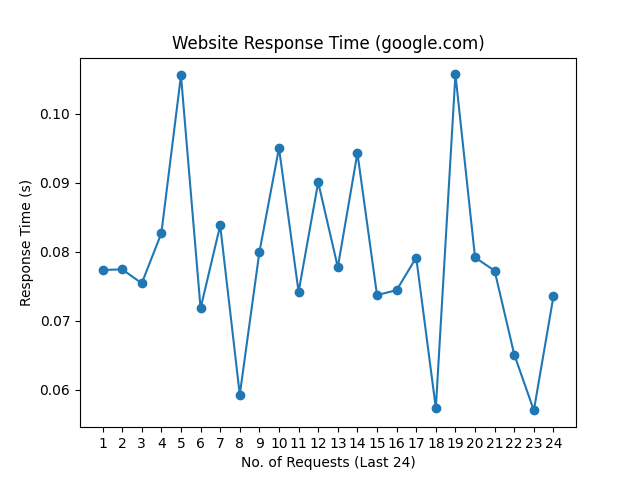
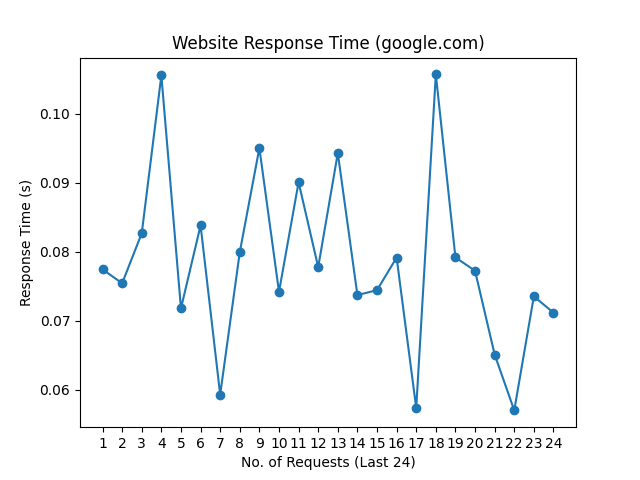
update README.md, history and graph

Changed region(s): [[0.1562, 0.125, 0.875, 0.875]]

diff --git a/README.md b/README.md
@@ -1,10 +1,10 @@
 # Web Monitoring
 
-Last Checked: 05/05/2025 08:24
+Last Checked: 06/05/2025 08:23
 
 | Website | Response Time (s) | Status | Avg Uptime (%) |
 |---------|-------------------|--------|----------------|
 | www.thiswebsiteisdown.net | 0 <br> <img src="graph/thiswebsiteisdown.net.png" alt="Graph" width="200" height="200">  | ❌ Down | 0.00 |
-| www.netflix.com | 1.250816 <br> <img src="graph/netflix.com.png" alt="Graph" width="200" height="200">  | ✅ Up | 99.69 |
-| www.google.com | 0.073555 <br> <img src="graph/google.com.png" alt="Graph" width="200" height="200">  | ✅ Up | 100.00 |
-| www.facebook.com | 0.916141 <br> <img src="graph/facebook.com.png" alt="Graph" width="200" height="200">  | ✅ Up | 100.00 |
+| www.netflix.com | 0.799337 <br> <img src="graph/netflix.com.png" alt="Graph" width="200" height="200">  | ✅ Up | 99.69 |
+| www.google.com | 0.071185 <br> <img src="graph/google.com.png" alt="Graph" width="200" height="200">  | ✅ Up | 100.00 |
+| www.facebook.com | 0.570388 <br> <img src="graph/facebook.com.png" alt="Graph" width="200" height="200">  | ✅ Up | 100.00 |
